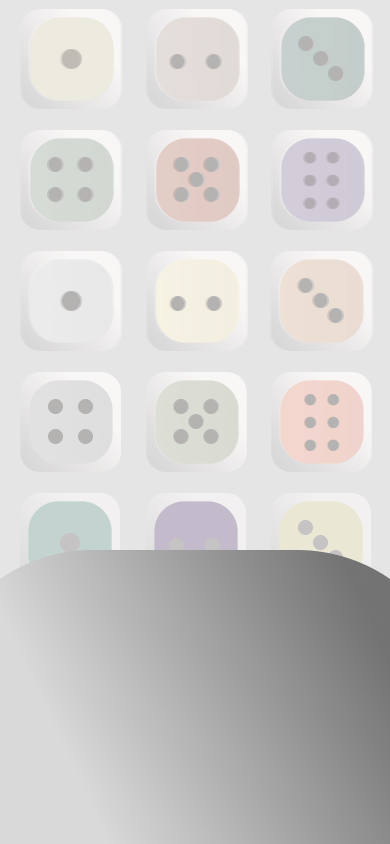
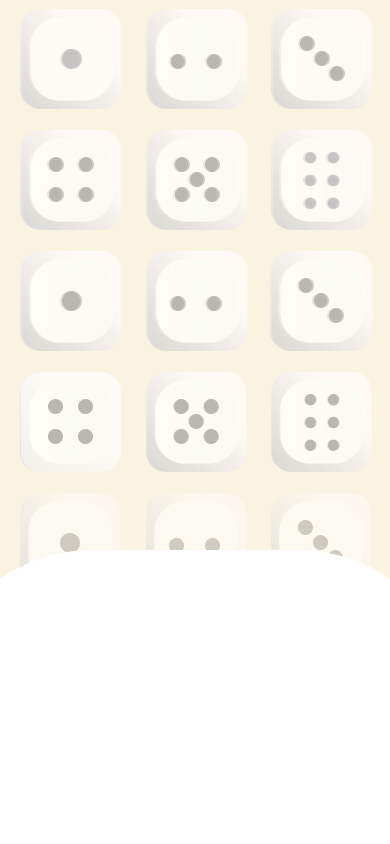
Changed welcome page

diff --git a/lib/welcome_screen.dart b/lib/welcome_screen.dart
@@ -3,8 +3,115 @@ import 'package:google_fonts/google_fonts.dart';
 
 import 'package:rool_dice_app/range_selection_screen.dart';
 
-class WelcomeScreen extends StatelessWidget {
+class WelcomeScreen extends StatefulWidget {
   const WelcomeScreen({super.key});
+
+  @override
+  State<WelcomeScreen> createState() => _WelcomeScreenState();
+}
+
+class _WelcomeScreenState extends State<WelcomeScreen> {
+  int selectedTheme = 0; // 0-5 arası tema
+  int selectedDiceCount = 1; // 1,2,4 olabilir
+
+  void _showThemeSelector() {
+    showModalBottomSheet(
+      context: context,
+      isScrollControlled: true,
+      backgroundColor: Colors.white,
+      shape: const RoundedRectangleBorder(
+        borderRadius: BorderRadius.vertical(top: Radius.circular(20)),
+      ),
+      builder: (context) {
+        return SizedBox(
+          height: MediaQuery.of(context).size.height * 0.75,
+          child: Column(
+            children: [
+              const SizedBox(height: 20),
+              Text("Tema Seç", style: GoogleFonts.jaro(fontSize: 28)),
+              const SizedBox(height: 20),
+              Expanded(
+                child: GridView.builder(
+                  padding: const EdgeInsets.all(16),
+                  gridDelegate: const SliverGridDelegateWithFixedCrossAxisCount(
+                    crossAxisCount: 3,
+                    mainAxisSpacing: 16,
+                    crossAxisSpacing: 16,
+                  ),
+                  itemCount: 6,
+                  itemBuilder: (context, index) {
+                    final isSelected = selectedTheme == index;
+                    return GestureDetector(
+                      onTap: () {
+                        setState(() {
+                          selectedTheme = index;
+                        });
+                        Navigator.pop(context);
+                      },
+                      child: Container(
+                        decoration: BoxDecoration(
+                          color:
+                              Colors.primaries[index % Colors.primaries.length],
+                          borderRadius: BorderRadius.circular(12),
+                          border:
+                              isSelected
+                                  ? Border.all(color: Colors.black, width: 3)
+                                  : null,
+                        ),
+                      ),
+                    );
+                  },
+                ),
+              ),
+            ],
+          ),
+        );
+      },
+    );
+  }
+
+  void _showDiceSelector() {
+    showModalBottomSheet(
+      context: context,
+      isScrollControlled: true,
+      backgroundColor: Colors.white,
+      shape: const RoundedRectangleBorder(
+        borderRadius: BorderRadius.vertical(top: Radius.circular(20)),
+      ),
+      builder: (context) {
+        return SizedBox(
+          height: MediaQuery.of(context).size.height * 0.75,
+          child: Column(
+            children: [
+              const SizedBox(height: 20),
+              Text("Zar Sayısı Seç", style: GoogleFonts.jaro(fontSize: 28)),
+              const SizedBox(height: 20),
+              Wrap(
+                spacing: 20,
+                children:
+                    [1, 2, 4].map((count) {
+                      final isSelected = selectedDiceCount == count;
+                      return ChoiceChip(
+                        label: Text(
+                          "$count Zar",
+                          style: GoogleFonts.jaro(fontSize: 20),
+                        ),
+                        selected: isSelected,
+                        onSelected: (_) {
+                          setState(() {
+                            selectedDiceCount = count;
+                          });
+                          Navigator.pop(context);
+                        },
+                      );
+                    }).toList(),
+              ),
+            ],
+          ),
+        );
+      },
+    );
+  }
 
   @override
   Widget build(BuildContext context) {
@@ -18,13 +125,12 @@ class WelcomeScreen extends StatelessWidget {
             fit: BoxFit.cover,
           ),
         ),
-
         child: Container(
-          color: Colors.black.withOpacity(0.3), // Hafif karartma efekti
+          color: Colors.black.withOpacity(0.0),
           child: Center(
             child: Column(
               children: [
-                const Spacer(), // boşluk yukarıyı doldurur
+                const Spacer(),
                 GestureDetector(
                   onTap: () {
                     Navigator.of(context).push(
@@ -49,7 +155,7 @@ class WelcomeScreen extends StatelessWidget {
                         BoxShadow(
                           color: Colors.black26,
                           blurRadius: 8,
-                          offset: Offset(0, 4),
+                          offset: Offset(0, 8),
                         ),
                       ],
                     ),
@@ -65,7 +171,41 @@ class WelcomeScreen extends StatelessWidget {
                     ),
                   ),
                 ),
-                const SizedBox(height: 50), // alttan biraz boşluk kalsın
+                const SizedBox(height: 20),
+                // Yeni Butonlar
+                Row(
+                  mainAxisAlignment: MainAxisAlignment.center,
+                  children: [
+                    ElevatedButton(
+                      style: ElevatedButton.styleFrom(
+                        shape: RoundedRectangleBorder(
+                          borderRadius: BorderRadius.circular(12),
+                        ),
+                        backgroundColor: const Color.fromARGB(255, 60, 59, 59).withOpacity(0.7),
+                      ),
+                      onPressed: _showThemeSelector,
+                      child: Text(
+                        "Tema Seç",
+                        style: GoogleFonts.jaro(fontSize: 25, fontWeight: FontWeight.w400, color: Colors.white,)
+                      ),
+                    ),
+                    const SizedBox(width: 16),
+                    ElevatedButton(
+                      style: ElevatedButton.styleFrom(
+                        shape: RoundedRectangleBorder(
+                          borderRadius: BorderRadius.circular(12),
+                        ),
+                        backgroundColor: const Color.fromARGB(255, 60, 59, 59).withOpacity(0.7),
+                      ),
+                      onPressed: _showDiceSelector,
+                      child: Text(
+                        "Zar Sayısı",
+                        style: GoogleFonts.jaro(fontSize: 25, fontWeight: FontWeight.w400, color: Colors.white,)
+                      ),
+                    ),
+                  ],
+                ),
+                const SizedBox(height: 50),
               ],
             ),
           ),
